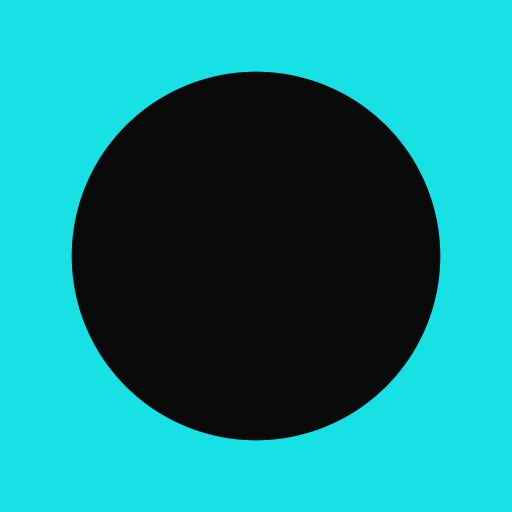
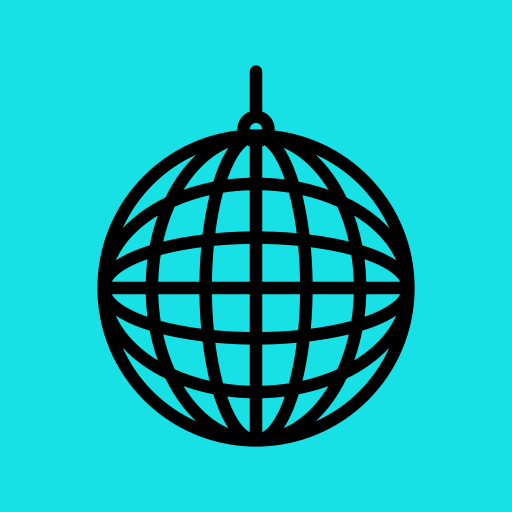
feat(danza): adopt disco ball brand mark

Changed region(s): [[0.125, 0.125, 0.875, 0.875]]

diff --git a/packages/ui/src/tenant-template/components/marks/danza-organica-mark.tsx b/packages/ui/src/tenant-template/components/marks/danza-organica-mark.tsx
@@ -1,0 +1,27 @@
+import type { SVGProps } from "react";
+
+export interface DanzaOrganicaMarkProps extends Omit<SVGProps<SVGSVGElement>, "height" | "width"> {
+  size?: number;
+}
+
+/**
+ * Danza Organica's disco-ball mark. The path is preserved from the
+ * supplied source artwork while the fill inherits `currentColor`, allowing
+ * the same mark to stay black on the Danza auth surface and follow event
+ * text colors elsewhere.
+ */
+export function DanzaOrganicaMark({ size = 64, ...svgProperties }: DanzaOrganicaMarkProps) {
+  return (
+    <svg
+      role="img"
+      {...svgProperties}
+      width={size}
+      height={size}
+      viewBox="0 0 1200 1200"
+      fill="currentColor"
+      xmlns="http://www.w3.org/2000/svg"
+    >
+      <path d="m655.42 223.35c0.10938-1.4219 0.42969-2.7812 0.42969-4.2305 0-24.191-15.543-44.641-37.098-52.391v-119.86c0-10.363-8.3945-18.75-18.75-18.75s-18.75 8.3867-18.75 18.75v119.86c-21.555 7.75-37.098 28.203-37.098 52.391 0 1.4492 0.32031 2.8086 0.42969 4.2305-236.4 27.555-420.51 228.93-420.51 472.59 0 262.43 213.5 475.93 475.93 475.93 262.43 0 475.93-213.5 475.93-475.93 0-243.67-184.11-445.04-420.51-472.59zm344.64 293.57c-33.754-36.387-77.434-67.887-128.41-92.637-24.75-50.973-56.25-94.652-92.633-128.4 98.027 44.035 177 123.02 221.05 221.04zm-313.73-146.54c-22.043-2.8242-44.594-4.6055-67.582-5.2305v-93.652c2.6523-0.95312 5.1641-2.1211 7.6133-3.4453 21.422 16.336 42.367 51.777 59.969 102.33zm244.46 306.82c-0.62109-22.988-2.4062-45.543-5.2305-67.59 56.543 19.684 94.035 43.562 107.19 67.59zm-37.488 0h-123.5c-0.48047-34.605-2.3086-69.359-5.418-103.43 45.188 5.8398 86.199 13.812 121.64 23.477 4.0039 25.867 6.5 52.574 7.2773 79.953zm-161.17 0h-113.38v-113.39c37.781 0.50391 73.812 2.4375 107.7 5.6836 3.2461 33.887 5.1797 69.922 5.6836 107.71zm-113.38-151.06v-123.5c27.375 0.77734 54.078 3.2734 79.941 7.2734 9.6641 35.441 17.637 76.453 23.477 121.64-34.066-3.1055-68.816-4.9336-103.42-5.4141zm-45.113-258.09c2.4492 1.3242 4.9609 2.4922 7.6133 3.4453v93.652c-22.984 0.62109-45.535 2.4062-67.582 5.2305 17.602-50.551 38.543-85.992 59.969-102.33zm7.6133 134.59v123.5c-34.602 0.48047-69.352 2.3086-103.42 5.4141 5.8398-45.188 13.812-86.199 23.477-121.64 25.863-4.0039 52.566-6.5 79.941-7.2734zm0 161.16v113.39h-113.38c0.50391-37.785 2.4336-73.82 5.6836-107.71 33.887-3.2461 69.918-5.1797 107.7-5.6836zm-151.05 113.39h-123.5c0.77734-27.379 3.2734-54.086 7.2773-79.953 35.441-9.6641 76.457-17.637 121.64-23.477-3.1094 34.07-4.9375 68.824-5.418 103.43zm-160.99 0h-101.96c13.152-24.027 50.645-47.906 107.19-67.59-2.8242 22.047-4.6094 44.602-5.2305 67.59zm0 37.5c0.62109 22.984 2.4062 45.531 5.2305 67.574-56.539-19.68-94.027-43.555-107.18-67.574zm37.488 0h123.5c0.48047 34.602 2.3086 69.344 5.4141 103.41-45.188-5.8398-86.199-13.812-121.64-23.477-4-25.863-6.5-52.562-7.2734-79.934zm161.17 0h113.38v113.38c-37.785-0.50391-73.816-2.4336-107.7-5.6836-3.2461-33.883-5.1758-69.91-5.6836-107.69zm113.38 151.04v123.5c-27.375-0.77734-54.082-3.2734-79.949-7.2773-9.6641-35.441-17.633-76.453-23.473-121.64 34.07 3.1055 68.816 4.9336 103.42 5.4141zm0 160.99v101.96c-24.023-13.156-47.902-50.648-67.586-107.2 22.047 2.8242 44.602 4.6055 67.586 5.2305zm37.5 101.96v-101.96c22.988-0.62109 45.543-2.4062 67.586-5.2305-19.684 56.547-43.562 94.039-67.586 107.2zm0-139.45v-123.5c34.602-0.48047 69.352-2.3086 103.42-5.4141-5.8398 45.188-13.809 86.199-23.473 121.64-25.867 4.0039-52.57 6.5-79.949 7.2773zm0-161.17v-113.38h113.38c-0.50391 37.781-2.4336 73.809-5.6836 107.69-33.887 3.2461-69.918 5.1758-107.7 5.6836zm151.05-113.38h123.5c-0.77734 27.371-3.2734 54.074-7.2734 79.934-35.441 9.6641-76.453 17.637-121.64 23.477 3.1055-34.066 4.9336-68.812 5.4141-103.41zm160.99 0h101.95c-13.156 24.02-50.645 47.895-107.18 67.574 2.8203-22.043 4.6055-44.594 5.2305-67.574zm-11.949-146.84c-6.0703-31.172-14.289-61.047-24.43-89.305 58.883 35.801 103.11 82.184 126.15 134.59-26.543-17.734-61.371-32.855-101.72-45.281zm-40.48-11.133c-36.66-8.9844-76.539-16.035-118.04-21.105-5.0703-41.504-12.121-81.383-21.109-118.04 37.363 8.4023 72.531 20.027 104.66 34.484 14.457 32.129 26.082 67.297 34.488 104.66zm-150.28-179.63c-12.43-40.348-27.547-75.172-45.281-101.71 52.398 23.039 98.781 67.262 134.58 126.14-28.254-10.137-58.129-18.359-89.305-24.426zm-210.87-101.71c-17.73 26.543-32.852 61.367-45.281 101.71-31.172 6.0703-61.051 14.289-89.305 24.426 35.801-58.879 82.184-103.1 134.58-126.14zm-56.414 142.2c-8.9844 36.66-16.039 76.539-21.109 118.04-41.504 5.0703-81.383 12.121-118.04 21.105 8.4023-37.363 20.027-72.531 34.488-104.66 32.129-14.457 67.301-26.082 104.66-34.484zm-179.63 150.28c-40.352 12.43-75.18 27.551-101.72 45.281 23.043-52.402 67.27-98.785 126.15-134.59-10.141 28.254-18.359 58.129-24.43 89.305zm-0.003907 256.16c6.0703 31.176 14.289 61.055 24.43 89.309-58.887-35.801-103.11-82.188-126.15-134.59 26.543 17.734 61.375 32.855 101.73 45.281zm40.48 11.133c36.66 8.9844 76.539 16.035 118.04 21.105 5.0703 41.504 12.121 81.383 21.105 118.04-37.363-8.4023-72.531-20.023-104.66-34.484-14.457-32.133-26.082-67.301-34.484-104.66zm150.28 179.62c12.43 40.355 27.551 75.188 45.285 101.73-52.406-23.043-98.793-67.273-134.59-126.16 28.258 10.141 58.133 18.359 89.309 24.43zm210.88 101.73c17.734-26.547 32.855-61.379 45.285-101.73 31.176-6.0703 61.055-14.289 89.309-24.43-35.805 58.891-82.188 103.12-134.59 126.16zm56.418-142.21c8.9844-36.66 16.035-76.539 21.105-118.04 41.504-5.0703 81.383-12.121 118.04-21.105-8.4023 37.363-20.027 72.531-34.484 104.66-32.133 14.457-67.301 26.078-104.66 34.484zm179.63-150.28c40.352-12.43 75.18-27.551 101.73-45.281-23.043 52.402-67.266 98.789-126.15 134.59 10.141-28.254 18.359-58.133 24.43-89.309zm-337.19-604.89c0-10.125 8.2305-18.367 18.348-18.367s18.348 8.2383 18.348 18.367c0 0.48047-0.23828 0.88281-0.27344 1.3555-6.0078-0.22656-12.012-0.45703-18.074-0.45703s-12.066 0.23438-18.074 0.45703c-0.035156-0.47266-0.27344-0.875-0.27344-1.3555zm-160.66 76.762c-36.383 33.75-67.883 77.426-92.633 128.4-50.98 24.75-94.656 56.25-128.41 92.637 44.039-98.023 123.02-177 221.05-221.04zm-221.06 579.06c33.754 36.387 77.434 67.887 128.41 92.641 24.754 50.984 56.254 94.668 92.645 128.43-98.035-44.039-177.02-123.03-221.06-221.06zm579.08 221.06c36.391-33.754 67.891-77.441 92.645-128.43 50.98-24.75 94.66-56.254 128.41-92.641-44.039 98.035-123.02 177.02-221.06 221.06z" />
+    </svg>
+  );
+}

diff --git a/apps/danza-organica/app/header-client.tsx b/apps/danza-organica/app/header-client.tsx
@@ -1,11 +1,10 @@
 "use client";
 import { SignedIn, SignedOut, SignOutButton, useUser } from "@clerk/nextjs";
 import { buildSatelliteReturnUrl, buildTenantPrimarySignInUrl } from "@coucou/sdk";
-import { Globe02Icon } from "@hugeicons/core-free-icons";
-import { HugeiconsIcon } from "@hugeicons/react";
+import { DanzaOrganicaMark } from "@coucou/ui/tenant-template";
 import { Cog, DoorOpen, Home, LogIn, LogOut, Settings, User } from "lucide-react";
 import Link from "next/link";
-import { usePathname, useSearchParams } from "next/navigation";
+import { usePathname } from "next/navigation";
 import { useEffect, useState } from "react";
 import { Button } from "@/components/ui/button";
 import {
@@ -15,10 +14,6 @@ import {
   DropdownMenuSeparator,
   DropdownMenuTrigger,
 } from "@/components/ui/dropdown-menu";
-import {
-  BAUHAUS_DISPLAY_COLORS,
-  resolveBauhausEventDisplaySettings,
-} from "@/lib/bauhaus-event-display";
 import { siteConfiguration } from "@/lib/site";
 
 const workspaceSlug = "danza-organica";
@@ -62,9 +57,6 @@ function useRoleFlags() {
 export default function HeaderClient({ initialSatelliteOrigin }: HeaderClientProps) {
   const { isHost, isDoor } = useRoleFlags();
   const pathname = usePathname();
-  const searchParameters = useSearchParams();
-  const displaySettings = resolveBauhausEventDisplaySettings(searchParameters);
-  const globeColor = BAUHAUS_DISPLAY_COLORS[displaySettings.textColor];
   const [satelliteOrigin, setSatelliteOrigin] = useState<string>(
     initialSatelliteOrigin ?? fallbackSatelliteOrigin,
   );
@@ -93,14 +85,10 @@ export default function HeaderClient({ initialSatelliteOrigin }: HeaderClientPro
             className="relative size-[26px] animate-in fade-in duration-600 pointer-events-auto rounded-full bg-[#17E1E5] text-[#0A0A0A] after:absolute after:-inset-[9px] hover:bg-[#17E1E5] hover:text-[#0A0A0A] focus-visible:ring-[#0A0A0A]/40"
             aria-label={`${siteConfiguration.brandName} menu`}
           >
-            <HugeiconsIcon
+            <DanzaOrganicaMark
               aria-hidden="true"
-              className="size-5"
-              data-icon="globe-02"
-              data-text-color={displaySettings.textColor}
-              icon={Globe02Icon}
+              className="size-5 -translate-y-[1.5px]"
               size={20}
-              style={{ color: globeColor }}
             />
           </Button>
         </DropdownMenuTrigger>

diff --git a/apps/danza-organica/app/opengraph-image.tsx b/apps/danza-organica/app/opengraph-image.tsx
@@ -1,3 +1,4 @@
+import { DanzaOrganicaMark } from "@coucou/ui/tenant-template";
 import { ImageResponse } from "next/og";
 import {
   BAUHAUS_DISPLAY_COLORS,
@@ -10,7 +11,7 @@ export const size = { width: 1200, height: 630 };
 export const contentType = "image/png";
 
 const BRAND_BACKGROUND = BAUHAUS_DISPLAY_COLORS.teal;
-const BRAND_GLOBE_COLOR = BAUHAUS_DISPLAY_COLORS[DEFAULT_BAUHAUS_EVENT_DISPLAY_SETTINGS.textColor];
+const BRAND_MARK_COLOR = BAUHAUS_DISPLAY_COLORS[DEFAULT_BAUHAUS_EVENT_DISPLAY_SETTINGS.textColor];
 
 export default async function OpengraphImage() {
   return new ImageResponse(
@@ -24,36 +25,11 @@ export default async function OpengraphImage() {
         backgroundColor: BRAND_BACKGROUND,
       }}
     >
-      <svg
-        width={300}
-        height={300}
-        viewBox="0 0 24 24"
-        fill="none"
-        xmlns="http://www.w3.org/2000/svg"
-        aria-label="Danza Organica globe"
-      >
-        <circle cx="12" cy="12" r="10" stroke={BRAND_GLOBE_COLOR} strokeWidth="1.5" />
-        <path
-          d="M8 12C8 18 12 22 12 22C12 22 16 18 16 12C16 6 12 2 12 2C12 2 8 6 8 12Z"
-          stroke={BRAND_GLOBE_COLOR}
-          strokeLinejoin="round"
-          strokeWidth="1.5"
-        />
-        <path
-          d="M21 15H3"
-          stroke={BRAND_GLOBE_COLOR}
-          strokeLinecap="round"
-          strokeLinejoin="round"
-          strokeWidth="1.5"
-        />
-        <path
-          d="M21 9H3"
-          stroke={BRAND_GLOBE_COLOR}
-          strokeLinecap="round"
-          strokeLinejoin="round"
-          strokeWidth="1.5"
-        />
-      </svg>
+      <DanzaOrganicaMark
+        size={300}
+        aria-label="Danza Organica disco ball"
+        style={{ color: BRAND_MARK_COLOR }}
+      />
     </div>,
     { ...size },
   );

diff --git a/apps/coucou/app/sign-in/[[...sign-in]]/sign-in-client.tsx b/apps/coucou/app/sign-in/[[...sign-in]]/sign-in-client.tsx
@@ -3,6 +3,7 @@
 import { getClientSiteRedirectOrigins, type PresetKey } from "@coucou/sdk";
 import type { SiteAuthConfiguration } from "@coucou/sdk/site-config";
 import { type AuthBrandingOverrides, PhoneAuthPage, type PhoneAuthStep } from "@coucou/ui/auth";
+import { DanzaOrganicaMark } from "@coucou/ui/tenant-template";
 import { type ReactNode, useMemo } from "react";
 import { CoucouLogoMark } from "@/components/coucou-logo";
 import { siteConfiguration } from "@/lib/site";
@@ -61,8 +62,14 @@ export function SignInClient({
     };
   }, [eventThemeAccentColor, eventThemeBackgroundColor, eventThemeTextColor]);
   const isCoucouPlatformAuthentication = siteAuthConfiguration === siteConfiguration.auth;
+  const isDanzaOrganicaAuthentication = siteAuthConfiguration.siteKey === "danza-organica";
   const resolvedBrandMarkSlot =
-    brandMarkSlot ?? (isCoucouPlatformAuthentication ? <CoucouLogoMark size={64} /> : undefined);
+    brandMarkSlot ??
+    (isCoucouPlatformAuthentication ? (
+      <CoucouLogoMark size={64} />
+    ) : isDanzaOrganicaAuthentication ? (
+      <DanzaOrganicaMark size={64} aria-label="Danza Organica disco ball" />
+    ) : undefined);
   const allowedRedirectOrigins = useMemo(() => {
     if (allowedRedirectOriginsOverride && allowedRedirectOriginsOverride.length > 0) {
       // Merge with the default client-site origins so satellites still

diff --git a/apps/danza-organica/__tests__/header-client.test.tsx b/apps/danza-organica/__tests__/header-client.test.tsx
@@ -9,10 +9,11 @@ describe("HeaderClient navigation", () => {
     renderWithProviders(<HeaderClient />);
 
     const triggerButton = screen.getByRole("button", { name: /Danza Organica menu/i });
-    const globeIcon = triggerButton.querySelector("svg");
-    expect(globeIcon).toHaveAttribute("data-icon", "globe-02");
-    expect(globeIcon).toHaveAttribute("data-text-color", "orange");
-    expect(globeIcon).toHaveStyle({ color: "#FC7243" });
+    const discoBallIcon = triggerButton.querySelector("svg");
+    expect(discoBallIcon).toBeTruthy();
+    expect(discoBallIcon).toHaveAttribute("viewBox", "0 0 1200 1200");
+    expect(discoBallIcon?.querySelectorAll("path")).toHaveLength(1);
+    expect(discoBallIcon?.getAttribute("class")).toContain("-translate-y-[1.5px]");
     expect(triggerButton.className).toContain("rounded-full");
     expect(triggerButton.className).toContain("size-[26px]");
     expect(triggerButton.className).toContain("after:-inset-[9px]");

diff --git a/apps/coucou/__tests__/sign-in-page.test.tsx b/apps/coucou/__tests__/sign-in-page.test.tsx
@@ -136,6 +136,22 @@ describe("SignInClient", () => {
     expect(screen.getByRole("link", { name: "Powered by Coucou" })).toBeTruthy();
   });
 
+  it("renders the Danza disco ball without the generated DO mark", () => {
+    const danzaSiteConfiguration = siteConfigurations["danza-organica"];
+
+    render(
+      <SignInClient
+        redirectUrl="https://danzaorganica.coucou.events/events/sample/ticket"
+        preset={danzaSiteConfiguration.preset}
+        siteAuthConfiguration={danzaSiteConfiguration.auth}
+      />,
+    );
+
+    expect(screen.getByRole("img", { name: "Danza Organica disco ball" })).toBeTruthy();
+    expect(screen.queryByText("DO")).toBeNull();
+    expect(document.querySelector('[data-preset="danza"]')).toBeTruthy();
+  });
+
   it("renders the redirected Club Chlorine login inside the chlorine shell", () => {
     const clubChlorineSiteConfiguration = siteConfigurations["club-chlorine"];
 

diff --git a/apps/danza-organica/__tests__/event-open-graph.test.ts b/apps/danza-organica/__tests__/event-open-graph.test.ts
@@ -11,7 +11,7 @@ describe("Danza event Open Graph image", () => {
     ).toBe("https://images.example/event.jpg");
   });
 
-  it("uses the globe image when selected even if a thumbnail exists", () => {
+  it("uses the disco-ball image when selected even if a thumbnail exists", () => {
     expect(
       resolveDanzaOpenGraphImageUrl({
         source: "logo",
@@ -20,7 +20,7 @@ describe("Danza event Open Graph image", () => {
     ).toBe(DANZA_LOGO_OPEN_GRAPH_IMAGE_URL);
   });
 
-  it("falls back to the globe image when a thumbnail is unavailable", () => {
+  it("falls back to the disco-ball image when a thumbnail is unavailable", () => {
     expect(resolveDanzaOpenGraphImageUrl({ source: "thumbnail", thumbnailUrl: null })).toBe(
       DANZA_LOGO_OPEN_GRAPH_IMAGE_URL,
     );

diff --git a/apps/danza-organica/__tests__/bauhaus-event-display.test.ts b/apps/danza-organica/__tests__/bauhaus-event-display.test.ts
@@ -8,7 +8,7 @@ import {
 } from "@/lib/bauhaus-event-display";
 
 describe("Bauhaus event display settings", () => {
-  it("defaults to the centered orange simple invitation", () => {
+  it("defaults to the centered orange invitation with black dots", () => {
     expect(resolveBauhausEventDisplaySettings(new URLSearchParams())).toEqual(
       DEFAULT_BAUHAUS_EVENT_DISPLAY_SETTINGS,
     );
@@ -17,7 +17,7 @@ describe("Bauhaus event display settings", () => {
       textColor: "orange",
       highlightColor: "none",
       logoVariant: "tealorange",
-      dotColor: "white",
+      dotColor: "black",
       preset: "simple",
       infoDensity: "minimal",
     });

diff --git a/apps/danza-organica/lib/site.ts b/apps/danza-organica/lib/site.ts
@@ -31,7 +31,7 @@ export function shouldUseClerkSatelliteModeForHost(
   }
 }
 
-const danzaOrganicaIconVersion = "danza-organica-v2";
+const danzaOrganicaIconVersion = "danza-organica-disco-ball-v2";
 
 function buildVersionedDanzaOrganicaIconPath(path: string) {
   return `${path}?v=${danzaOrganicaIconVersion}`;

diff --git a/apps/danza-organica/lib/bauhaus-event-display.ts b/apps/danza-organica/lib/bauhaus-event-display.ts
@@ -36,7 +36,7 @@ export const DEFAULT_BAUHAUS_EVENT_DISPLAY_SETTINGS: BauhausEventDisplaySettings
   textColor: "orange",
   highlightColor: "none",
   logoVariant: "tealorange",
-  dotColor: "white",
+  dotColor: "black",
   preset: "simple",
   infoDensity: "minimal",
 };

diff --git a/packages/ui/src/tenant-template/components/marks/index.ts b/packages/ui/src/tenant-template/components/marks/index.ts
@@ -1,3 +1,4 @@
 export * from "./chlorine-mark";
 export * from "./chlorine-ripple-mark";
 export * from "./chlorine-ripple-surface";
+export * from "./danza-organica-mark";
